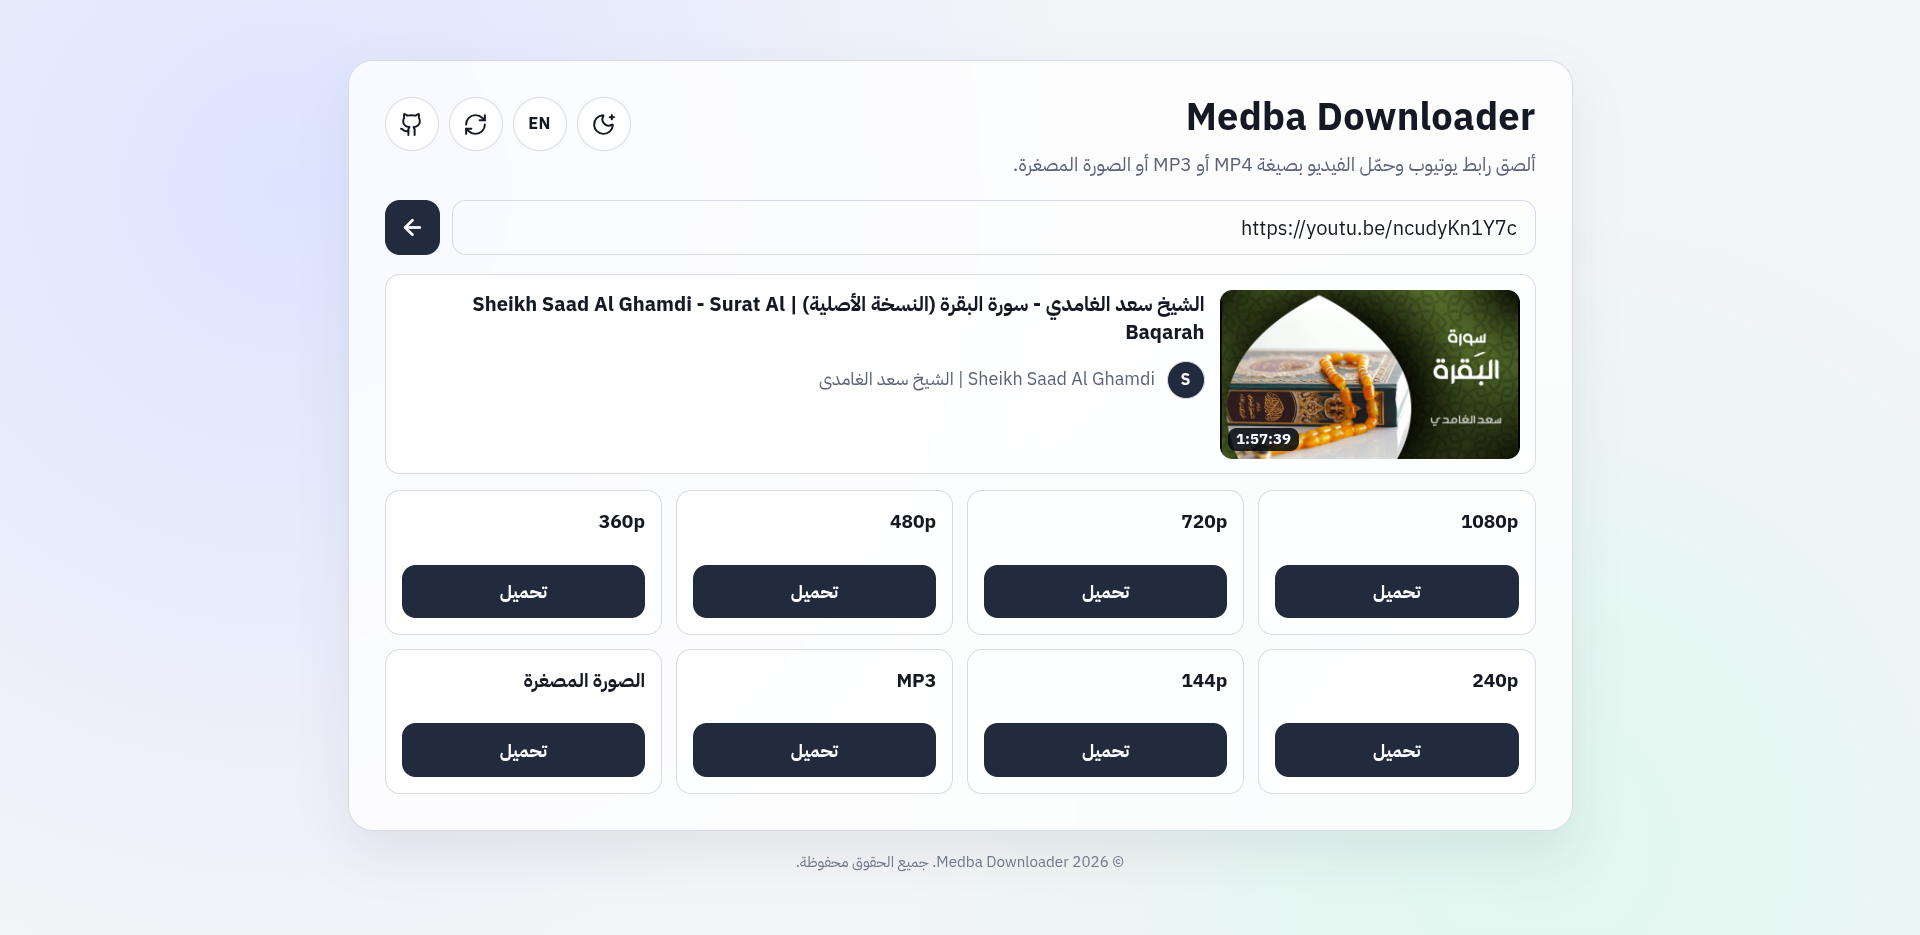
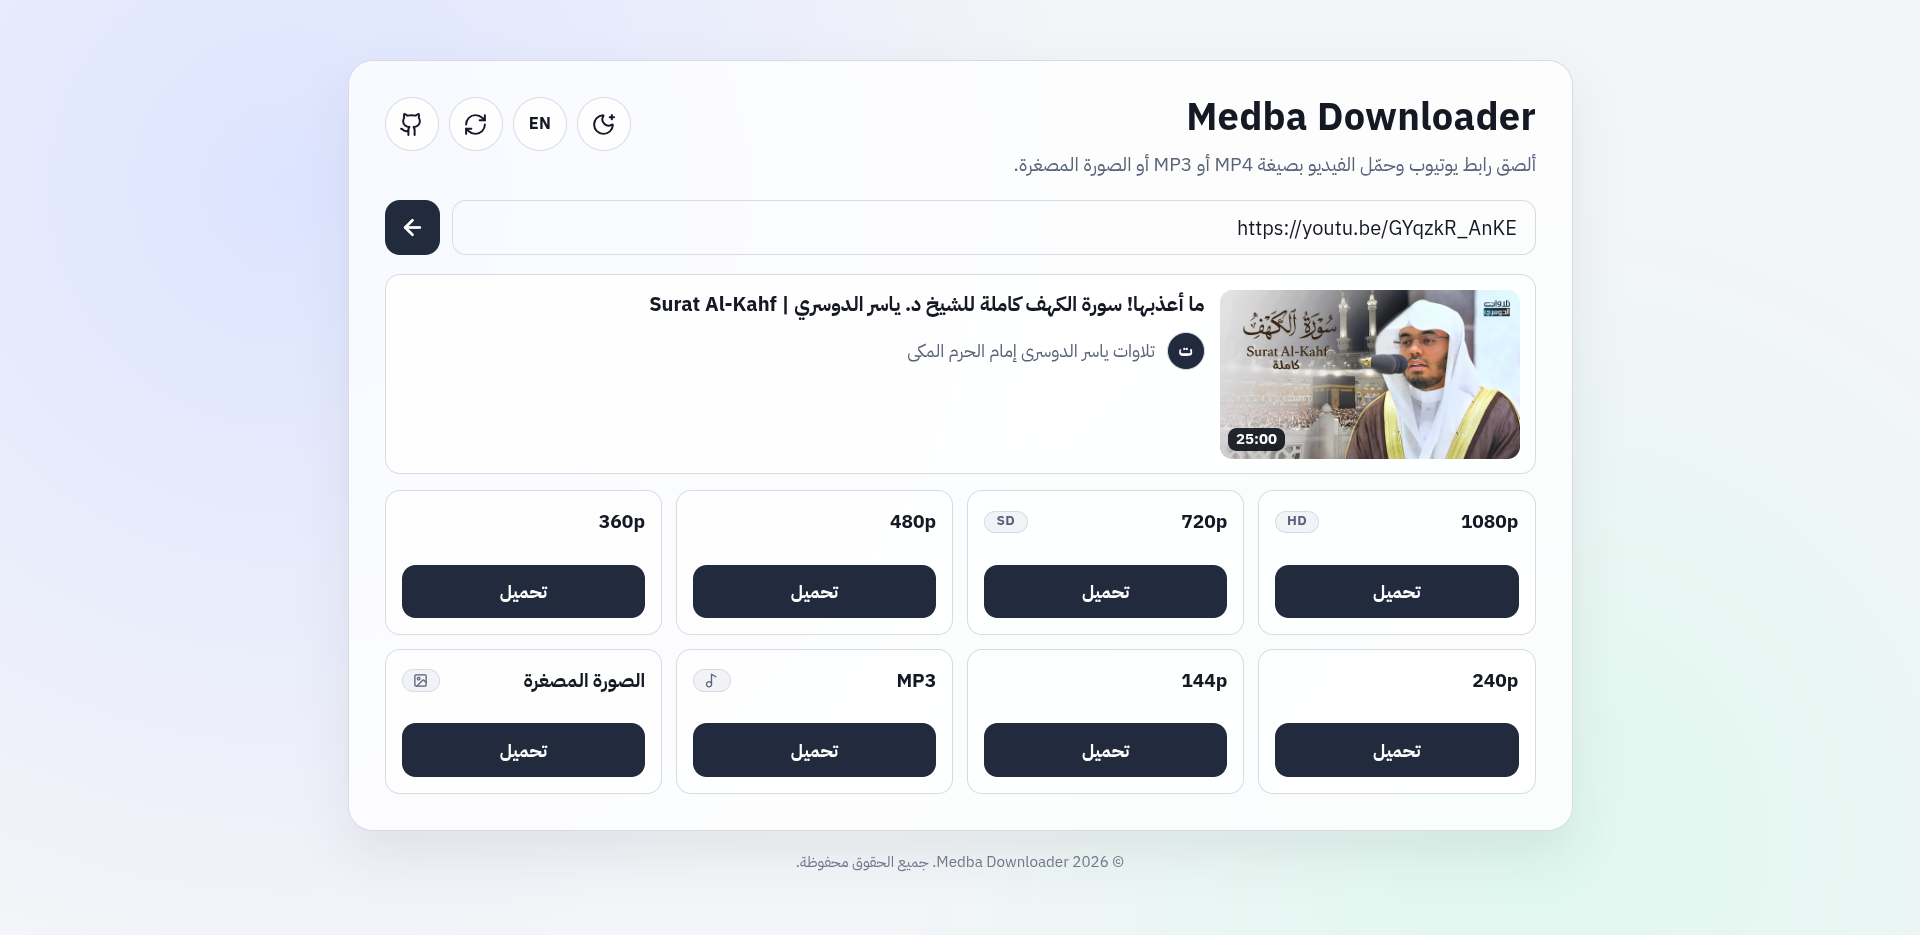
medba-downloader-V1

diff --git a/client/src/App.jsx b/client/src/App.jsx
@@ -1,5 +1,5 @@
 import { useEffect, useMemo, useState } from 'react';
-import { ArrowLeft, ArrowRight, Github, MoonStar, RefreshCw, SunMedium } from 'lucide-react';
+import { ArrowLeft, ArrowRight, Github, Image as ImageIcon, MoonStar, Music2, RefreshCw, SunMedium } from 'lucide-react';
 
 const API_BASE = import.meta.env.VITE_API_URL || 'http://localhost:5000';
 const GITHUB_URL = import.meta.env.VITE_GITHUB_URL || 'https://github.com/med6ba/medba-downloader';
@@ -246,6 +246,37 @@ function getDisplayInitial(value) {
   }
 
   return normalized[0].toUpperCase();
+}
+
+function getQualityTierLabel(value) {
+  const normalized = normalizeText(value).toLowerCase();
+  const heightMatch = normalized.match(/(\d{3,4})p/);
+  if (!heightMatch?.[1]) {
+    return '';
+  }
+
+  const height = Number(heightMatch[1]);
+  if (!Number.isFinite(height)) {
+    return '';
+  }
+
+  if (height === 2160) {
+    return '4K';
+  }
+
+  if (height === 1440) {
+    return '2K';
+  }
+
+  if (height === 1080) {
+    return 'HD';
+  }
+
+  if (height === 720) {
+    return 'SD';
+  }
+
+  return '';
 }
 
 export default function App() {
@@ -552,29 +583,46 @@ export default function App() {
               </div>
             </article>
             <ul className="format-list">
-              {formats.map((format) => (
-                <li key={format.formatId} className="quality-card">
-                  <div className="quality-head">
-                    <strong className="quality-label">{format.quality || t.unknownQuality}</strong>
-                  </div>
-                  <button
-                    type="button"
-                    className="primary-btn card-btn"
-                    onClick={() => handleVideoDownload(format.formatId, format.hasAudio)}
-                    disabled={
-                      isLoadingFormats ||
-                      isDownloadingMp3 ||
-                      isDownloadingThumbnail ||
-                      Boolean(downloadingFormatId)
-                    }
-                  >
-                    {downloadingFormatId === format.formatId ? t.preparing : t.download}
-                  </button>
-                </li>
-              ))}
+              {formats.map((format) => {
+                const qualityLabel = format.quality || t.unknownQuality;
+                const qualityTier = getQualityTierLabel(format.quality);
+
+                return (
+                  <li key={format.formatId} className="quality-card">
+                    <div className="quality-head">
+                      <strong className="quality-label">
+                        <span className="quality-label-text">{qualityLabel}</span>
+                        {qualityTier && (
+                          <span className="quality-tier-badge">
+                            {qualityTier}
+                          </span>
+                        )}
+                      </strong>
+                    </div>
+                    <button
+                      type="button"
+                      className="primary-btn card-btn"
+                      onClick={() => handleVideoDownload(format.formatId, format.hasAudio)}
+                      disabled={
+                        isLoadingFormats ||
+                        isDownloadingMp3 ||
+                        isDownloadingThumbnail ||
+                        Boolean(downloadingFormatId)
+                      }
+                    >
+                      {downloadingFormatId === format.formatId ? t.preparing : t.download}
+                    </button>
+                  </li>
+                );
+              })}
               <li key="mp3-download-card" className="quality-card">
                 <div className="quality-head">
-                  <strong className="quality-label">{t.mp3Title}</strong>
+                  <strong className="quality-label">
+                    <span className="quality-label-text">{t.mp3Title}</span>
+                    <span className="quality-tier-badge quality-tier-icon" aria-hidden="true">
+                      <Music2 size={12} strokeWidth={2.1} />
+                    </span>
+                  </strong>
                 </div>
                 <button
                   type="button"
@@ -592,7 +640,12 @@ export default function App() {
               </li>
               <li key="thumbnail-download-card" className="quality-card">
                 <div className="quality-head">
-                  <strong className="quality-label">{t.thumbnailTitle}</strong>
+                  <strong className="quality-label">
+                    <span className="quality-label-text">{t.thumbnailTitle}</span>
+                    <span className="quality-tier-badge quality-tier-icon" aria-hidden="true">
+                      <ImageIcon size={12} strokeWidth={2.1} />
+                    </span>
+                  </strong>
                 </div>
                 <button
                   type="button"

diff --git a/client/src/index.css b/client/src/index.css
@@ -379,8 +379,46 @@ body {
 .quality-label {
   font-size: 0.96rem;
   font-weight: 600;
+  width: 100%;
   display: inline-flex;
   align-items: center;
+  justify-content: space-between;
+  gap: 0.45rem;
+}
+
+.quality-label-text {
+  min-width: 0;
+  overflow-wrap: anywhere;
+}
+
+.quality-tier-badge {
+  flex-shrink: 0;
+  display: inline-flex;
+  align-items: center;
+  justify-content: center;
+  min-width: 2.2rem;
+  padding: 0.12rem 0.4rem;
+  border-radius: 999px;
+  border: 1px solid var(--surface-border);
+  font-size: 0.68rem;
+  font-weight: 750;
+  line-height: 1.1;
+  letter-spacing: 0.03em;
+  text-transform: uppercase;
+  background: color-mix(in oklab, var(--surface-border) 34%, var(--surface-solid));
+  color: var(--text-muted);
+  border-color: var(--surface-border);
+}
+
+.quality-tier-icon {
+  min-width: 1.9rem;
+  padding: 0.14rem 0.34rem;
+}
+
+.quality-tier-icon svg {
+  width: 12px;
+  height: 12px;
+  flex-shrink: 0;
 }
 
 .quality-head {
